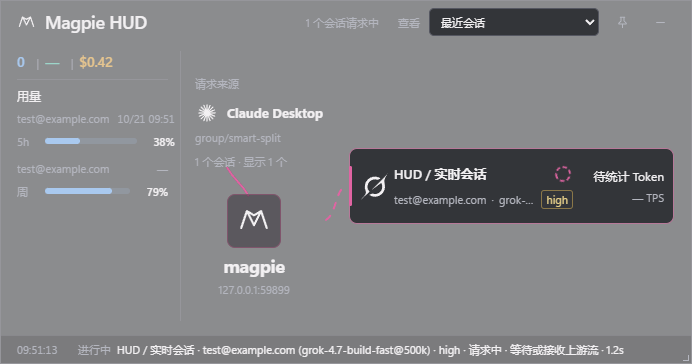
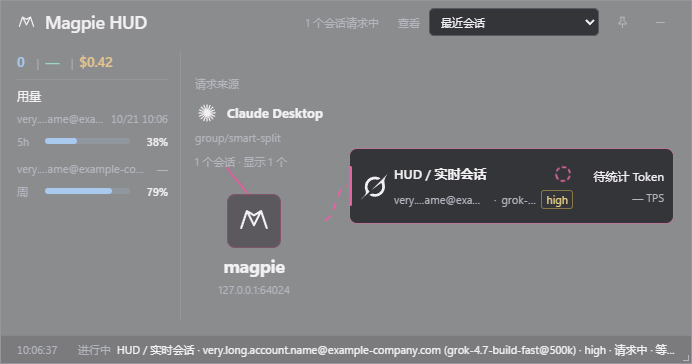
fix: 修复额度长账号撑出左侧滚动条
限制额度网格列最小宽度，账号按剩余空间省略，优先保留重置时间。
隐藏左栏与额度列表滚动条并保留纵向滚轮操作，完整账号可悬停查看。
使用长账号复现与验收窄栏边界，更新原生窗口截图。

diff --git a/ui/hud.css b/ui/hud.css
@@ -4,7 +4,7 @@
 .hud{height:100vh;width:100vw;display:grid;grid-template-rows:46px minmax(0,1fr)76px;background:rgb(23 25 30/.5);backdrop-filter:blur(22px);border:1px solid var(--edge);overflow:hidden}
 .window-bar{display:flex;align-items:center;gap:9px;padding:0 16px;user-select:none}.brand-mark{width:19px;height:19px;flex-shrink:0}.brand-mark path,.router-emblem path{stroke:currentColor;fill:none;stroke-width:1.5;stroke-linecap:round;stroke-linejoin:round}.brand-name{margin:0;font-size:18px;line-height:1;font-weight:600;letter-spacing:-.4px;white-space:nowrap}.brand-subtitle{font-size:11px;color:var(--muted);border-left:1px solid var(--edge);padding-left:11px}.watch-state{margin-left:auto;font-size:11px;color:var(--muted);white-space:nowrap;overflow:hidden;text-overflow:ellipsis;max-width:230px}.hud[data-state="warning"] .watch-state,.hud[data-state="missing"] .watch-state{color:var(--warning)}.scope-label{font-size:11px;color:var(--muted);margin-left:10px}select{height:28px;max-width:194px;width:170px;background:var(--raised);border:1px solid #555761;border-radius:5px;padding:0 7px;font-size:11px}select option{background:var(--surface)}.window-button{width:29px;height:29px;display:grid;place-items:center;background:transparent;color:var(--muted);border:0;border-radius:4px;flex-shrink:0}.window-button svg{width:15px;height:15px;fill:none;stroke:currentColor;stroke-width:1.4;stroke-linecap:round;stroke-linejoin:round}.window-button:hover,.window-button[aria-pressed="true"]{background:rgb(70 72 80/.45);color:var(--ink)}
 /* 宽窗：186px 统计/用量 + 20px 间距 + 路由（148px 中转 + 会话）。 */
-.content{display:grid;grid-template-columns:186px minmax(0,1fr);min-height:0;padding:8px 20px 14px;gap:20px}.sidebar{min-width:0;min-height:0;display:flex;flex-direction:column;gap:14px;border-right:1px solid var(--edge);padding-right:16px;overflow:auto;scrollbar-width:thin}.daily{min-width:0;flex-shrink:0}.daily-heading,.quota-heading{display:flex;align-items:baseline;justify-content:space-between;gap:6px;margin-bottom:7px}.daily-heading strong,.quota-heading h2{font-size:12px;font-weight:500;margin:0}.daily-heading time,.quota-heading>span{font-size:11px;color:var(--muted)}dl{margin:0;display:grid;gap:10px}.metric{min-width:0}.metric dt{color:var(--muted);font-size:11px}.metric dt span{font-size:11px}#cost-status{color:var(--warning)}.metric dd{margin:2px 0;font-size:24px;line-height:1.15;font-weight:600;letter-spacing:-.5px;font-variant-numeric:tabular-nums}.metric small{font-size:11px;color:var(--muted);display:block;line-height:1.4;overflow:hidden;text-overflow:ellipsis;white-space:nowrap}.metric:nth-child(2) dd{font-size:21px}#daily-tokens{color:var(--stat-tokens)}#daily-speed{color:var(--stat-speed)}#daily-cost{color:var(--stat-cost)}.stats-scope{display:block;color:var(--muted);font-size:11px;overflow:hidden;text-overflow:ellipsis;white-space:nowrap;padding-top:8px}.quota{border-top:1px solid var(--edge);padding-top:12px;min-width:0}.quota-list{display:flex;flex-direction:column;gap:12px}.quota-item{min-width:0;display:grid;gap:6px}.quota-meta{display:flex;align-items:baseline;justify-content:space-between;gap:8px;font-size:11px;line-height:16px}.quota-account{color:var(--muted);min-width:0;overflow:hidden;text-overflow:ellipsis;white-space:nowrap}.quota-reset{flex-shrink:0;color:var(--muted);font-variant-numeric:tabular-nums;white-space:nowrap}.quota-window{display:grid;grid-template-columns:22px minmax(0,1fr)32px;align-items:center;gap:6px;min-height:16px;font-size:11px}.quota-period{color:var(--muted);white-space:nowrap;overflow:hidden;text-overflow:ellipsis}.quota-window strong{font-weight:500;text-align:right;white-space:nowrap;font-variant-numeric:tabular-nums}.quota-track{height:6px;min-width:0;border-radius:4px;background:rgb(169 201 239/.17);overflow:hidden}.quota-fill{display:block;height:100%;background:var(--stat-tokens);border-radius:0 4px 4px 0}.quota-window[data-low="true"] .quota-track{background:rgb(226 182 122/.17)}.quota-window[data-low="true"] .quota-fill{background:var(--warning)}.quota-track[data-unknown="true"]{background:transparent;border:1px dashed var(--muted)}.quota-item[data-stale="true"] .quota-track{opacity:.6}.quota-empty{font-size:11px;color:var(--muted);margin:0;line-height:1.5}#quota-freshness{color:var(--warning)}
+.content{display:grid;grid-template-columns:186px minmax(0,1fr);min-height:0;padding:8px 20px 14px;gap:20px}.sidebar{min-width:0;min-height:0;display:flex;flex-direction:column;gap:14px;border-right:1px solid var(--edge);padding-right:16px;overflow-x:hidden;overflow-y:auto;scrollbar-width:none}.sidebar::-webkit-scrollbar,.quota-list::-webkit-scrollbar{display:none}.daily{min-width:0;flex-shrink:0}.daily-heading,.quota-heading{display:flex;align-items:baseline;justify-content:space-between;gap:6px;margin-bottom:7px}.daily-heading strong,.quota-heading h2{font-size:12px;font-weight:500;margin:0}.daily-heading time,.quota-heading>span{font-size:11px;color:var(--muted)}dl{margin:0;display:grid;gap:10px}.metric{min-width:0}.metric dt{color:var(--muted);font-size:11px}.metric dt span{font-size:11px}#cost-status{color:var(--warning)}.metric dd{margin:2px 0;font-size:24px;line-height:1.15;font-weight:600;letter-spacing:-.5px;font-variant-numeric:tabular-nums}.metric small{font-size:11px;color:var(--muted);display:block;line-height:1.4;overflow:hidden;text-overflow:ellipsis;white-space:nowrap}.metric:nth-child(2) dd{font-size:21px}#daily-tokens{color:var(--stat-tokens)}#daily-speed{color:var(--stat-speed)}#daily-cost{color:var(--stat-cost)}.stats-scope{display:block;color:var(--muted);font-size:11px;overflow:hidden;text-overflow:ellipsis;white-space:nowrap;padding-top:8px}.quota{border-top:1px solid var(--edge);padding-top:12px;min-width:0}.quota-list{display:flex;flex-direction:column;gap:12px;min-width:0}.quota-item{min-width:0;width:100%;display:grid;grid-template-columns:minmax(0,1fr);gap:6px}.quota-meta{display:grid;grid-template-columns:minmax(0,1fr) auto;align-items:baseline;min-width:0;gap:6px;font-size:11px;line-height:16px}.quota-account{color:var(--muted);min-width:0;overflow:hidden;text-overflow:ellipsis;white-space:nowrap}.quota-reset{flex-shrink:0;color:var(--muted);font-variant-numeric:tabular-nums;white-space:nowrap}.quota-window{display:grid;grid-template-columns:22px minmax(0,1fr)32px;align-items:center;gap:6px;min-height:16px;font-size:11px}.quota-period{color:var(--muted);white-space:nowrap;overflow:hidden;text-overflow:ellipsis}.quota-window strong{font-weight:500;text-align:right;white-space:nowrap;font-variant-numeric:tabular-nums}.quota-track{height:6px;min-width:0;border-radius:4px;background:rgb(169 201 239/.17);overflow:hidden}.quota-fill{display:block;height:100%;background:var(--stat-tokens);border-radius:0 4px 4px 0}.quota-window[data-low="true"] .quota-track{background:rgb(226 182 122/.17)}.quota-window[data-low="true"] .quota-fill{background:var(--warning)}.quota-track[data-unknown="true"]{background:transparent;border:1px dashed var(--muted)}.quota-item[data-stale="true"] .quota-track{opacity:.6}.quota-empty{font-size:11px;color:var(--muted);margin:0;line-height:1.5}#quota-freshness{color:var(--warning)}
 .routing{display:grid;grid-template-columns:288px minmax(0,1fr);min-width:0;min-height:0;align-items:stretch}.transit{display:grid;grid-template-columns:minmax(0,1fr)30px 94px;align-items:center;min-width:0;min-height:0}.source-node{min-width:0;max-height:100%;overflow:auto;scrollbar-width:thin}.node-caption{display:block;color:var(--muted);font-size:11px;margin-bottom:10px}.source-list{display:grid;gap:12px}.source-heading{display:flex;gap:8px;align-items:center;min-width:0}.source-icon{width:24px;height:24px;display:grid;place-items:center;flex-shrink:0}.source-icon img{width:22px;height:22px;object-fit:contain}.source-heading strong{white-space:nowrap;overflow:hidden;text-overflow:ellipsis;font-size:13px}.source-request{display:block;white-space:nowrap;overflow:hidden;text-overflow:ellipsis;color:var(--muted);font-size:11px;margin-top:5px}.source-node small{display:block;font-size:11px;color:var(--muted);margin-top:9px}.inbound{width:100%;height:74px}.route-track,.route-active,.branch{stroke-width:2;fill:none;stroke-linecap:round;vector-effect:non-scaling-stroke}.route-track{stroke:#67616d}.route-active,.branch{stroke:var(--route)}.router-node{display:flex;align-items:center;flex-direction:column;text-align:center;min-width:0;position:relative;z-index:1}.router-emblem{width:54px;height:54px;display:grid;place-items:center;border:1px solid #80556c;border-radius:8px;background:rgb(44 38 48/.5);margin-bottom:6px}.router-emblem svg{width:34px;height:34px}.router-node strong{font-size:18px;letter-spacing:-.4px}.router-node>span{font-size:11px;color:var(--muted);white-space:nowrap;margin-top:4px;max-width:100%;overflow:hidden;text-overflow:ellipsis}
 .hud[data-layout="wide"][data-sources="compact"] .routing{grid-template-columns:148px minmax(0,1fr)}.hud[data-layout="wide"][data-sources="compact"] .transit{grid-template-columns:minmax(0,1fr);grid-template-rows:auto 25px auto;align-content:center;justify-items:start;padding-right:8px}.hud[data-layout="wide"][data-sources="compact"] .inbound{width:38px;height:25px;margin-left:24px;transform:rotate(60deg)}.hud[data-layout="wide"][data-sources="compact"] .router-node{justify-self:center;width:100%}
 .route-area{height:100%;position:relative;min-height:0;min-width:0;display:flex;align-items:center}.route-lines{position:absolute;inset:0;width:100%;height:100%;pointer-events:none;overflow:hidden}.branch.failed{stroke:var(--failed);stroke-dasharray:4 5;opacity:.65}.branch.cancelled,.branch.unknown{stroke:#aaaeb8;stroke-dasharray:3 5}.branch.inactive{stroke:#977789;opacity:.65}.branch.running{stroke-dasharray:6 8;animation:route-stream 1s linear infinite}.branch.waiting{stroke:var(--warning);stroke-dasharray:3 5}.routes{display:flex;flex-direction:column;gap:9px;width:100%;max-height:100%;padding:1px 1px 1px 42px;overflow:auto;scrollbar-width:thin;scrollbar-color:#77707c transparent;position:relative}.route-card{flex-shrink:0;display:grid;grid-template-columns:32px minmax(0,1fr)96px;align-items:center;gap:10px;min-height:76px;width:100%;text-align:left;padding:10px 13px 10px 11px;border:1px solid #776270;border-radius:8px;background:var(--raised);position:relative;cursor:pointer}.route-card::before{content:"";width:3px;position:absolute;left:-1px;top:17px;bottom:17px;border-radius:2px;background:var(--route)}.route-card:hover{border-color:#bc87a3}.route-card.selected{border-color:var(--route)}.route-card.failed{border-style:dashed;border-color:#b0727a}.route-card.failed::before{background:var(--failed)}.route-card.cancelled,.route-card.unknown{border-color:#696c78}.route-card.cancelled::before,.route-card.unknown::before{background:#a8aab4}.route-card.running{border-color:#b77999}.route-card.waiting{border-color:#a58b60}.route-card.waiting::before{background:var(--warning)}.model-icon{width:30px;height:30px;display:grid;place-items:center;flex-shrink:0}.model-icon img{width:27px;height:27px;object-fit:contain}.model-icon .fallback{font-size:21px;color:var(--muted)}.card-copy{min-width:0}.card-top{display:flex;align-items:center;gap:8px;margin-bottom:6px;min-width:0}.session-title{font-size:13px;font-weight:600;flex:1;min-width:0;white-space:nowrap;overflow:hidden;text-overflow:ellipsis}.state-tag{font-size:11px;color:var(--muted);white-space:nowrap;display:flex;align-items:center;gap:4px}.state-symbol{color:var(--route);font-size:11px}.failed .state-symbol{color:var(--failed)}.cancelled .state-symbol{color:var(--warning)}.request-spinner{display:block;width:20px;height:20px;color:var(--route);animation:request-spin 1.4s linear infinite;flex-shrink:0}.request-spinner circle{fill:none;stroke:currentColor;stroke-width:1.8;stroke-dasharray:3 4;stroke-linecap:round}.card-bottom{font-size:11px;color:var(--muted);display:flex;align-items:center;gap:7px;white-space:nowrap;min-width:0}.card-account{max-width:115px;overflow:hidden;text-overflow:ellipsis}.card-model{overflow:hidden;text-overflow:ellipsis;min-width:0;flex:1}.effort{font-size:11px;border:1px solid var(--edge);border-radius:3px;padding:0 4px;line-height:17px;flex-shrink:0}.effort[data-level="low"]{color:#9ccfff;border-color:#56708d}.effort[data-level="medium"]{color:#8dd7b0;border-color:#497b61}.effort[data-level="high"]{color:#e6cf89;border-color:#8a7748}.effort[data-level="xhigh"]{color:#f2b17c;border-color:#93643e}.effort[data-level="max"]{color:#ef97ab;border-color:#925569}.effort[data-level="ultra"]{color:#e4acdf;border-color:#875b84}.divider{color:var(--muted)}.card-metrics{display:flex;flex-direction:column;gap:6px;text-align:right;font-size:12px;white-space:nowrap;font-variant-numeric:tabular-nums}.card-tps{font-size:11px;color:var(--muted)}.empty-route{display:flex;align-items:center;gap:13px;margin-left:42px;color:var(--muted);border:1px dashed #77707c;padding:17px;flex:1;border-radius:8px}.empty-square{font-size:20px}.empty-route strong{display:block;font-size:13px;font-weight:500}.empty-route small{display:block;font-size:11px;margin-top:7px}
@@ -12,7 +12,7 @@
 @keyframes route-stream{to{stroke-dashoffset:-28}}@keyframes request-spin{to{transform:rotate(360deg)}}
 .resize-edge,.resize-corner{position:fixed;z-index:20}.resize-edge.north,.resize-edge.south{left:12px;right:12px;height:6px;cursor:ns-resize}.resize-edge.north{top:0}.resize-edge.south{bottom:0}.resize-edge.east,.resize-edge.west{top:12px;bottom:12px;width:6px;cursor:ew-resize}.resize-edge.east{right:0}.resize-edge.west{left:0}.resize-corner{width:12px;height:12px}.north-west{top:0;left:0;cursor:nwse-resize}.north-east{top:0;right:0;cursor:nesw-resize}.south-west{bottom:0;left:0;cursor:nesw-resize}.south-east{bottom:0;right:0;cursor:nwse-resize}.south-east::after{content:"";position:absolute;right:3px;bottom:3px;width:5px;height:5px;border-right:1px solid var(--muted);border-bottom:1px solid var(--muted)}
 @media(max-width:1000px){.content{grid-template-columns:164px minmax(0,1fr);gap:14px;padding-inline:16px}.sidebar{padding-right:12px}.hud[data-layout="wide"][data-sources="compact"] .routing{grid-template-columns:126px minmax(0,1fr)}.brand-subtitle{display:none}.watch-state{max-width:140px}.route-card{grid-template-columns:28px minmax(0,1fr)84px;gap:7px;padding:9px}.routes{padding-left:28px}.card-bottom{gap:5px}.card-account{max-width:95px}}
-.hud[data-layout="tall"]{grid-template-rows:76px minmax(0,1fr)76px}.hud[data-layout="tall"] .window-bar{display:grid;grid-template-columns:20px minmax(0,1fr)29px 29px;grid-template-rows:30px 30px;gap:2px 8px;padding:6px 16px}.hud[data-layout="tall"] .brand-mark{grid-column:1;grid-row:1}.hud[data-layout="tall"] .brand-name{grid-column:2;grid-row:1}.hud[data-layout="tall"] .brand-subtitle,.hud[data-layout="tall"] .scope-label,.hud[data-layout="tall"] .watch-state{display:none}.hud[data-layout="tall"] #session-select{grid-column:1/3;grid-row:2;justify-self:start;width:100%;max-width:none;font-size:11px}.hud[data-layout="tall"] #pin{grid-column:3;grid-row:1}.hud[data-layout="tall"] #hide-window{grid-column:4;grid-row:1}.hud[data-layout="tall"] .content{display:flex;flex-direction:column;gap:12px;padding:4px 16px 12px;overflow-y:auto;scrollbar-width:thin}.hud[data-layout="tall"] .sidebar{display:block;flex-shrink:0;border:0;padding:0;overflow:visible}.hud[data-layout="tall"] .daily{padding-bottom:10px}.hud[data-layout="tall"] dl{grid-template-columns:repeat(3,minmax(0,1fr));gap:10px}.hud[data-layout="tall"] .metric dd{font-size:21px}.hud[data-layout="tall"] .metric:nth-child(2) dd{font-size:19px}.hud[data-layout="tall"] .stats-scope{padding-top:6px}.hud[data-layout="tall"] .quota{padding-top:9px}.hud[data-layout="tall"] .quota-list{display:grid;grid-template-columns:repeat(auto-fit,minmax(140px,1fr));gap:10px;max-height:136px;overflow:auto;scrollbar-width:thin}.hud[data-layout="tall"] .routing{display:flex;flex-direction:column;flex:1 0 270px;gap:10px}.hud[data-layout="tall"] .transit{display:grid;grid-template-columns:minmax(0,1fr)26px 90px;flex-shrink:0;min-height:100px}.hud[data-layout="tall"] .source-node{overflow:visible}.hud[data-layout="tall"] .node-caption{margin-bottom:6px}.hud[data-layout="tall"] .source-icon{display:grid;width:27px;height:27px}.hud[data-layout="tall"] .source-icon img{width:25px;height:25px}.hud[data-layout="tall"] .inbound{display:block;height:70px}.hud[data-layout="tall"] .router-emblem{width:58px;height:58px}.hud[data-layout="tall"] .router-emblem svg{width:38px;height:38px}.hud[data-layout="tall"] .router-node strong{font-size:17px}.hud[data-layout="tall"] .router-node>span{font-size:11px}.hud[data-layout="tall"] .route-area{height:auto;min-height:160px;flex:1;align-items:flex-start}.hud[data-layout="tall"] .routes{padding:1px 1px 1px 28px;gap:9px;max-height:none;overflow:visible}.hud[data-layout="tall"] .route-card{grid-template-columns:28px minmax(0,1fr);gap:8px;padding:10px;min-height:96px}.hud[data-layout="tall"] .model-icon{width:28px;height:28px;align-self:start;margin-top:2px}.hud[data-layout="tall"] .model-icon img{width:26px;height:26px}.hud[data-layout="tall"] .card-copy{grid-column:2}.hud[data-layout="tall"] .card-top{gap:6px}.hud[data-layout="tall"] .card-account{max-width:100px}.hud[data-layout="tall"] .card-bottom{gap:5px}.hud[data-layout="tall"] .card-metrics{grid-column:2;flex-direction:row;justify-content:space-between;text-align:left;gap:8px}.hud[data-layout="tall"] .empty-route{margin-left:28px}.hud[data-layout="tall"] .route-notes{padding-inline:16px}.hud[data-layout="tall"] .note-row{grid-template-columns:55px 33px minmax(0,1fr);gap:6px}.hud[data-layout="tall"] .note-row p{font-size:11px}
+.hud[data-layout="tall"]{grid-template-rows:76px minmax(0,1fr)76px}.hud[data-layout="tall"] .window-bar{display:grid;grid-template-columns:20px minmax(0,1fr)29px 29px;grid-template-rows:30px 30px;gap:2px 8px;padding:6px 16px}.hud[data-layout="tall"] .brand-mark{grid-column:1;grid-row:1}.hud[data-layout="tall"] .brand-name{grid-column:2;grid-row:1}.hud[data-layout="tall"] .brand-subtitle,.hud[data-layout="tall"] .scope-label,.hud[data-layout="tall"] .watch-state{display:none}.hud[data-layout="tall"] #session-select{grid-column:1/3;grid-row:2;justify-self:start;width:100%;max-width:none;font-size:11px}.hud[data-layout="tall"] #pin{grid-column:3;grid-row:1}.hud[data-layout="tall"] #hide-window{grid-column:4;grid-row:1}.hud[data-layout="tall"] .content{display:flex;flex-direction:column;gap:12px;padding:4px 16px 12px;overflow-y:auto;scrollbar-width:thin}.hud[data-layout="tall"] .sidebar{display:block;flex-shrink:0;border:0;padding:0;overflow:visible}.hud[data-layout="tall"] .daily{padding-bottom:10px}.hud[data-layout="tall"] dl{grid-template-columns:repeat(3,minmax(0,1fr));gap:10px}.hud[data-layout="tall"] .metric dd{font-size:21px}.hud[data-layout="tall"] .metric:nth-child(2) dd{font-size:19px}.hud[data-layout="tall"] .stats-scope{padding-top:6px}.hud[data-layout="tall"] .quota{padding-top:9px}.hud[data-layout="tall"] .quota-list{display:grid;grid-template-columns:repeat(auto-fit,minmax(140px,1fr));gap:10px;max-height:136px;overflow-x:hidden;overflow-y:auto;scrollbar-width:none}.hud[data-layout="tall"] .routing{display:flex;flex-direction:column;flex:1 0 270px;gap:10px}.hud[data-layout="tall"] .transit{display:grid;grid-template-columns:minmax(0,1fr)26px 90px;flex-shrink:0;min-height:100px}.hud[data-layout="tall"] .source-node{overflow:visible}.hud[data-layout="tall"] .node-caption{margin-bottom:6px}.hud[data-layout="tall"] .source-icon{display:grid;width:27px;height:27px}.hud[data-layout="tall"] .source-icon img{width:25px;height:25px}.hud[data-layout="tall"] .inbound{display:block;height:70px}.hud[data-layout="tall"] .router-emblem{width:58px;height:58px}.hud[data-layout="tall"] .router-emblem svg{width:38px;height:38px}.hud[data-layout="tall"] .router-node strong{font-size:17px}.hud[data-layout="tall"] .router-node>span{font-size:11px}.hud[data-layout="tall"] .route-area{height:auto;min-height:160px;flex:1;align-items:flex-start}.hud[data-layout="tall"] .routes{padding:1px 1px 1px 28px;gap:9px;max-height:none;overflow:visible}.hud[data-layout="tall"] .route-card{grid-template-columns:28px minmax(0,1fr);gap:8px;padding:10px;min-height:96px}.hud[data-layout="tall"] .model-icon{width:28px;height:28px;align-self:start;margin-top:2px}.hud[data-layout="tall"] .model-icon img{width:26px;height:26px}.hud[data-layout="tall"] .card-copy{grid-column:2}.hud[data-layout="tall"] .card-top{gap:6px}.hud[data-layout="tall"] .card-account{max-width:100px}.hud[data-layout="tall"] .card-bottom{gap:5px}.hud[data-layout="tall"] .card-metrics{grid-column:2;flex-direction:row;justify-content:space-between;text-align:left;gap:8px}.hud[data-layout="tall"] .empty-route{margin-left:28px}.hud[data-layout="tall"] .route-notes{padding-inline:16px}.hud[data-layout="tall"] .note-row{grid-template-columns:55px 33px minmax(0,1fr);gap:6px}.hud[data-layout="tall"] .note-row p{font-size:11px}
 @media(max-height:540px){.hud[data-layout="wide"] .sidebar{gap:6px}.hud[data-layout="wide"] .daily-heading{margin-bottom:4px}.hud[data-layout="wide"] dl{grid-template-columns:1fr 1fr;gap:6px}.hud[data-layout="wide"] #tokens-metric{order:1}.hud[data-layout="wide"] #speed-metric{order:2}.hud[data-layout="wide"] #cost-metric{order:3;grid-column:1/3;display:flex;align-items:baseline;justify-content:space-between;gap:6px}.hud[data-layout="wide"] .metric dd{font-size:21px}.hud[data-layout="wide"] .metric:nth-child(2) dd{font-size:18px}.hud[data-layout="wide"] #cost-metric small,.hud[data-layout="wide"] #speed-metric small{display:none}.hud[data-layout="wide"] .stats-scope{display:none}.hud[data-layout="wide"] .quota{padding-top:8px}.hud[data-layout="tall"] .metric small,.hud[data-layout="tall"] .stats-scope{display:none}}
 /* 高度不超过 420px：统计只保留 Token | TPS | 费用，日志收为 28px 单行。 */
 @media(max-height:420px){.hud{grid-template-rows:42px minmax(0,1fr)28px}.hud[data-layout="tall"]{grid-template-rows:76px minmax(0,1fr)28px}.hud .daily-heading,.hud .metric small,.hud .stats-scope{display:none}.hud .daily{padding:0}.hud dl{display:flex;align-items:baseline;gap:0;white-space:nowrap}.hud .metric,.hud[data-layout="wide"] #cost-metric{display:flex;align-items:baseline;flex:0 0 auto;gap:0;min-width:0}.hud #tokens-metric{order:1}.hud #speed-metric{order:2}.hud #cost-metric{order:3}.hud .metric dt{position:absolute;width:1px;height:1px;padding:0;margin:-1px;overflow:hidden;clip-path:inset(50%);white-space:nowrap}.hud[data-layout] .metric dd,.hud[data-layout] .metric:nth-child(2) dd{font-size:14px;line-height:22px;font-weight:600;letter-spacing:-.3px;margin:0;white-space:nowrap}.hud #speed-metric::before,.hud #cost-metric::before{content:"|";color:var(--muted);font-size:11px;font-weight:400;margin:0 6px}.hud[data-cost-stale="true"] #cost-metric::after{content:"旧";font-size:11px;color:var(--warning);margin-left:3px}.hud .route-notes{grid-template-rows:minmax(0,1fr);padding:3px 16px}.hud .note-row{grid-template-columns:55px 33px minmax(0,1fr);gap:6px;min-height:0}.hud .note-row:last-child{display:none}.hud .note-row p{font-size:11px;line-height:20px;color:var(--ink)}.hud[data-layout="tall"] .content{gap:8px}}

diff --git a/ui/hud.js b/ui/hud.js
@@ -252,6 +252,7 @@
         const account = document.createElement('span');
         account.className = 'quota-account';
         account.textContent = shortAccount(card.account);
+        account.title = card.account;
         const reset = document.createElement('time');
         reset.className = 'quota-reset';
         const resetTime = span?.resetsAt && !Number.isNaN(Date.parse(span.resetsAt)) ? new Date(span.resetsAt) : null;

diff --git a/scripts/verify_live_window.py b/scripts/verify_live_window.py
@@ -35,7 +35,7 @@ class Gateway(BaseHTTPRequestHandler):
             elif self.path == '/v1/magpie/concurrency':
                 data = {'active': self.state['active']}
             elif self.path == '/v1/magpie/quotas?kept=1':
-                data = {'object': 'list', 'data': [{'provider': 'grok', 'name': 'grok', 'user': 'test@example.com', 'kind': 'subscription', 'readAt': self.state['started'], 'windows': [{'name': '5 hours', 'remaining': 62, 'used': 38, 'resetsAt': self.state['started']}, {'name': '7 days', 'remaining': 21, 'used': 79}]}]}
+                data = {'object': 'list', 'data': [{'provider': 'grok', 'name': 'grok', 'user': 'very.long.account.name@example-company.com', 'kind': 'subscription', 'readAt': self.state['started'], 'windows': [{'name': '5 hours', 'remaining': 62, 'used': 38, 'resetsAt': self.state['started']}, {'name': '7 days', 'remaining': 21, 'used': 79}]}]}
             elif self.path == '/v1/magpie/usage?period=today':
                 data = {'since': self.state['started'], 'calls': 2, 'cost': 0.42, 'unpriced': 1, 'sessions': [{'id': 'session-alpha', 'calls': 1, 'cost': .12, 'unpriced': 0}]}
             else:
@@ -119,7 +119,7 @@ def main():
     started = datetime.datetime.now().astimezone().isoformat()
     active = {'id': 1, 'route': 100, 'session': 'session-alpha', 'agent': 'claude-desktop', 'model': 'group/smart-split', 'provider': 'grok', 'phase': 'upstream', 'started': started, 'ms': 1200}
     route = {'id': 100, 'session': 'session-alpha', 'provider': 'grok', 'done': False,
-             'order': [{'id': 'grok', 'who': 'test@example.com'}],
+             'order': [{'id': 'grok', 'who': 'very.long.account.name@example-company.com'}],
              'tries': [{'id': 'grok', 'model': 'grok-4.7-build-fast@500k', 'effort': 'high', 'done': False}]}
     Gateway.state = {'seq': 1, 'pid': 1000, 'ids': [100], 'routes': [route], 'active': [active], 'started': started}
     server = ThreadingHTTPServer(('127.0.0.1', 0), Gateway)
@@ -187,6 +187,9 @@ def main():
         client.evaluate("window.__TAURI__.webviewWindow.getCurrentWebviewWindow().setSize(new window.__TAURI__.dpi.LogicalSize(692,364))")
         client.wait("innerWidth===692 && innerHeight===364")
         assert client.evaluate("document.getElementById('cost-metric').getBoundingClientRect().right <= document.querySelector('.sidebar').getBoundingClientRect().right && document.documentElement.scrollWidth <= innerWidth")
+        assert client.evaluate("document.querySelector('.sidebar').scrollWidth <= document.querySelector('.sidebar').clientWidth && getComputedStyle(document.querySelector('.sidebar')).scrollbarWidth === 'none'")
+        assert client.evaluate("document.querySelector('.quota-account').scrollWidth > document.querySelector('.quota-account').clientWidth && document.querySelector('.quota-reset').getBoundingClientRect().right < document.querySelector('.sidebar').getBoundingClientRect().right")
+        assert client.evaluate("document.querySelector('.quota-account').title") == 'very.long.account.name@example-company.com'
         short = screenshot(client, 'hud-short.png')
         client.evaluate("window.__TAURI__.webviewWindow.getCurrentWebviewWindow().setSize(new window.__TAURI__.dpi.LogicalSize(420,760))")
         client.wait("innerWidth===420 && document.getElementById('hud').dataset.layout==='tall'")
@@ -209,7 +212,7 @@ def main():
             route['tries'][0]['done'] = True
             Gateway.state['seq'] = 2
             Gateway.state['active'] = []
-        append(path, record(1, 'test@example.com', model='grok-4.7-build-fast@500k', provider='grok', route_id=100))
+        append(path, record(1, 'very.long.account.name@example-company.com', model='grok-4.7-build-fast@500k', provider='grok', route_id=100))
         client.wait("!document.querySelector('.route-card.running') && document.querySelector('.card-tokens')?.textContent==='1.0k Token'")
         assert client.evaluate("document.querySelector('.card-tps').textContent") == '50.0 TPS'
         assert client.evaluate("document.querySelectorAll('.request-spinner').length") == 0
@@ -249,7 +252,7 @@ def main():
             time.sleep(.1)
         assert client, 'restarted WebView2 not ready'
         client.wait("innerWidth===420 && innerHeight===760 && document.getElementById('hud')?.dataset.layout==='tall'")
-        print(json.dumps({'passed': True, 'checks': ['short-window-stats-and-one-line-log', 'two-line-usage-bars', 'dashed-spinner-rotation', 'statistic-colors', 'native-acrylic', 'quota-windows', 'global-and-session-cost', 'title-and-half-opacity', 'source-stacking-and-icons', 'effort-color', 'active-before-completion', 'real-title-and-rename', 'animation-moves', 'reduced-motion', 'token-and-tps', 'native-wide-tall-resize', 'minimum-width-360', 'disconnect-stops-activity', 'restart-restores-size'], 'screenshots': [wide, tall, short]}, ensure_ascii=False))
+        print(json.dumps({'passed': True, 'checks': ['sidebar-no-scrollbars-long-account', 'short-window-stats-and-one-line-log', 'two-line-usage-bars', 'dashed-spinner-rotation', 'statistic-colors', 'native-acrylic', 'quota-windows', 'global-and-session-cost', 'title-and-half-opacity', 'source-stacking-and-icons', 'effort-color', 'active-before-completion', 'real-title-and-rename', 'animation-moves', 'reduced-motion', 'token-and-tps', 'native-wide-tall-resize', 'minimum-width-360', 'disconnect-stops-activity', 'restart-restores-size'], 'screenshots': [wide, tall, short]}, ensure_ascii=False))
     finally:
         if client:
             try:

diff --git a/docs/feat/Feat_261021_3_额度侧栏与磨砂布局.md b/docs/feat/Feat_261021_3_额度侧栏与磨砂布局.md
@@ -10,7 +10,7 @@
 
 ## 2. UI 与数据约定
 
-保留现有石墨底色、洋红路由和系统中文字体。左栏分当日统计、用量两段；小高度时压缩统计排版，额度列表超长可滚动。竖屏顶部保留统计与用量，再放来源/Magpie 和会话。50% 仅作用于主背景，文字独立保持不透明；Tauri Acrylic 模糊窗口背后的桌面，CSS blur 负责浏览器内的背景。
+保留现有石墨底色、洋红路由和系统中文字体。左栏分当日统计、用量两段；小高度时压缩统计排版，额度列表超长可通过滚轮或键盘滚动，不显示滚动条；账号在剩余宽度内省略，完整身份留在提示，重置时间优先保留。竖屏顶部保留统计与用量，再放来源/Magpie 和会话。50% 仅作用于主背景，文字独立保持不透明；Tauri Acrylic 模糊窗口背后的桌面，CSS blur 负责浏览器内的背景。
 
 强度使用浅蓝、绿、黄、橙、粉红、淡紫红，保留完整文字，未知强度保持中性。用户明确要求磨砂与六档颜色，优先于设计技能中禁止 glass、多色的默认建议。参考 Data terminal（seed 1919189929），保留本项目路由图与既有布局，不套用导航/部署页模板。
 
@@ -43,6 +43,7 @@
 - 浏览器预览验证六档强度具有六个不同的计算色、4 个并发活跃会话全部可见、单会话选择、3 个来源切换到展开布局、最小尺寸没有横向溢出。控制台无错误。
 - 2026-10-21 两行用量微调：浏览器核对每个窗口仅两个子行，38% / 79% 对应真实填充比例，360px 宽无横向溢出；统计三色对深底对比度分别 10.29 / 10.70 / 10.67。旋转虚线圆仅用于 running，保留请求中可访问名，未知额度无填充，0% 无占位短条。调试构建、17 项 Rust 测试、实际 WebView2 的两行比例/旋转/减少动态/完成移除验收通过，真实 Magpie 数据的新版 HUD 已重启。
 - 2026-10-21 矮窗增量：692×364 下三项统计同一基线、完整位于左栏且没有水平滚动，日志实测 28px / 一行；高度 421px 恢复 76px / 两行，360×280 同样使用紧凑模式。样例 `198M | 49.1 | $254`，精确金额保留在提示。17 项 Rust 测试、调试构建和原生 WebView2 紧凑/恢复检查通过；完成记录回归实测 118.2ms，真实配置新版已启动。
+- 2026-10-21 长账号溢出修正：原 692×364 窗口左栏宽 163px，被长账号撑至 scrollWidth=241px；设置 minmax(0,1fr) 后 scrollWidth=clientWidth=163px，账号省略、重置时间保留。左栏与额度列表 scrollbar-width=none；360px 宽的 8 窗口额度列表仍可滚动，无横向溢出。17 项 Rust 测试、调试构建和真实 WebView2 长账号验收通过。
 - 设计 lint 为 0 FAIL；glass 为用户明确要求，破折号表示未知数字。自动 inspector 的透明窗口对比度检查把透明根背景按白色计算，不适用于桌面合成；单独允许该规则，保留截图核对；字号 11–12px 为悬浮窗密集信息选择。窄屏边距按检查调整至 16px。
 - 最终 inspector 在 1440×900、768×1024、390×844 为 0 FAIL / 1 WARN（密集信息字号），已核对三种空状态截图。脱敏有数据预览与原生截图单独检查：左右边界对齐、来源与 Magpie 的上下/并排关系成立、字号最小 11px，主信息是会话名与本次用量，额度零和未知值区分清楚。未发现未解决的截断或覆盖；长列表按区域滚动。
 

diff --git a/README.md b/README.md
@@ -43,7 +43,7 @@ cargo test --manifest-path src-tauri/Cargo.toml --lib
 - 失败使用真实 HTTP 状态及错误；499 为调用方取消，不算账号冷却。后续成功或 `tries>1` 时显示“已恢复”或“重试成功”。`usage.jsonl` 不含路由页的逐次失败账号、实时冷却和精确恢复时间，不能复刻“31 秒后恢复”倒计时。
 - **Token**：按系统本地日期汇总 `in + out + cache_read`。日志中的 `t` 是请求开始时间；当天归属按该时间转本地日期，最新完成和恢复顺序按文件追加顺序，避免并发请求倒序。
 - **费用估值**：只读 Magpie `/v1/magpie/usage?period=today` 的 USD 估值和未定价条数，选中会话时按 `sessions[].id` 显示该会话费用，每 5 秒刷新。订阅账号金额为等价用量估值，并非实际账单；费用沿用 Magpie 用量页口径（含内部 routing），而 HUD 的 Token/请求数排除 routing。无价格不伪造 $0.00，日志 Credits、账号余额各保留自身单位。
-- **用量**：左栏第二部分读取 `/v1/magpie/quotas?kept=1` 的最近缓存额度，每 30 秒更新。按供应商 + 完整账号唯一关联当前显示会话的模型；5h、周等窗口没有模型限定时属于账号共享额度。显示为两行：账号与重置时刻；窗口简称、已用进度条与百分比。详细模型、读数时间和错误放在悬停提示，失联保留旧读数并标记。
+- **用量**：左栏第二部分读取 `/v1/magpie/quotas?kept=1` 的最近缓存额度，每 30 秒更新。按供应商 + 完整账号唯一关联当前显示会话的模型；5h、周等窗口没有模型限定时属于账号共享额度。显示为两行：账号与重置时刻；窗口简称、已用进度条与百分比。账号放不下时自动省略，悬停可看完整账号；左栏不显示滚动条，超长列表仍可用滚轮查看。详细模型、读数时间和错误放在悬停提示，失联保留旧读数并标记。
 - **TPS**：当日加权输出速度 `Σout / Σ(ms − ttft_ms) × 1000`，仅纳入成功且生成耗时有效的记录；每块会话另显示本次请求对应的 Token/TPS。Magpie 活跃接口尚无执行中的精确输出计数，进行中显示“待统计 Token / — TPS”，完成日志到达后显示最终值；`upstream` 包含等待首字与正在流式返回，不伪造逐 Token 进度。
 - 模型图标来自 [LobeHub Icons](https://github.com/lobehub/lobe-icons) 的 `@lobehub/icons-static-svg` 1.95.1，已本地打包并保留 [MIT 许可](ui/icons/LICENSE)，应用运行时不联网加载图标。
 
